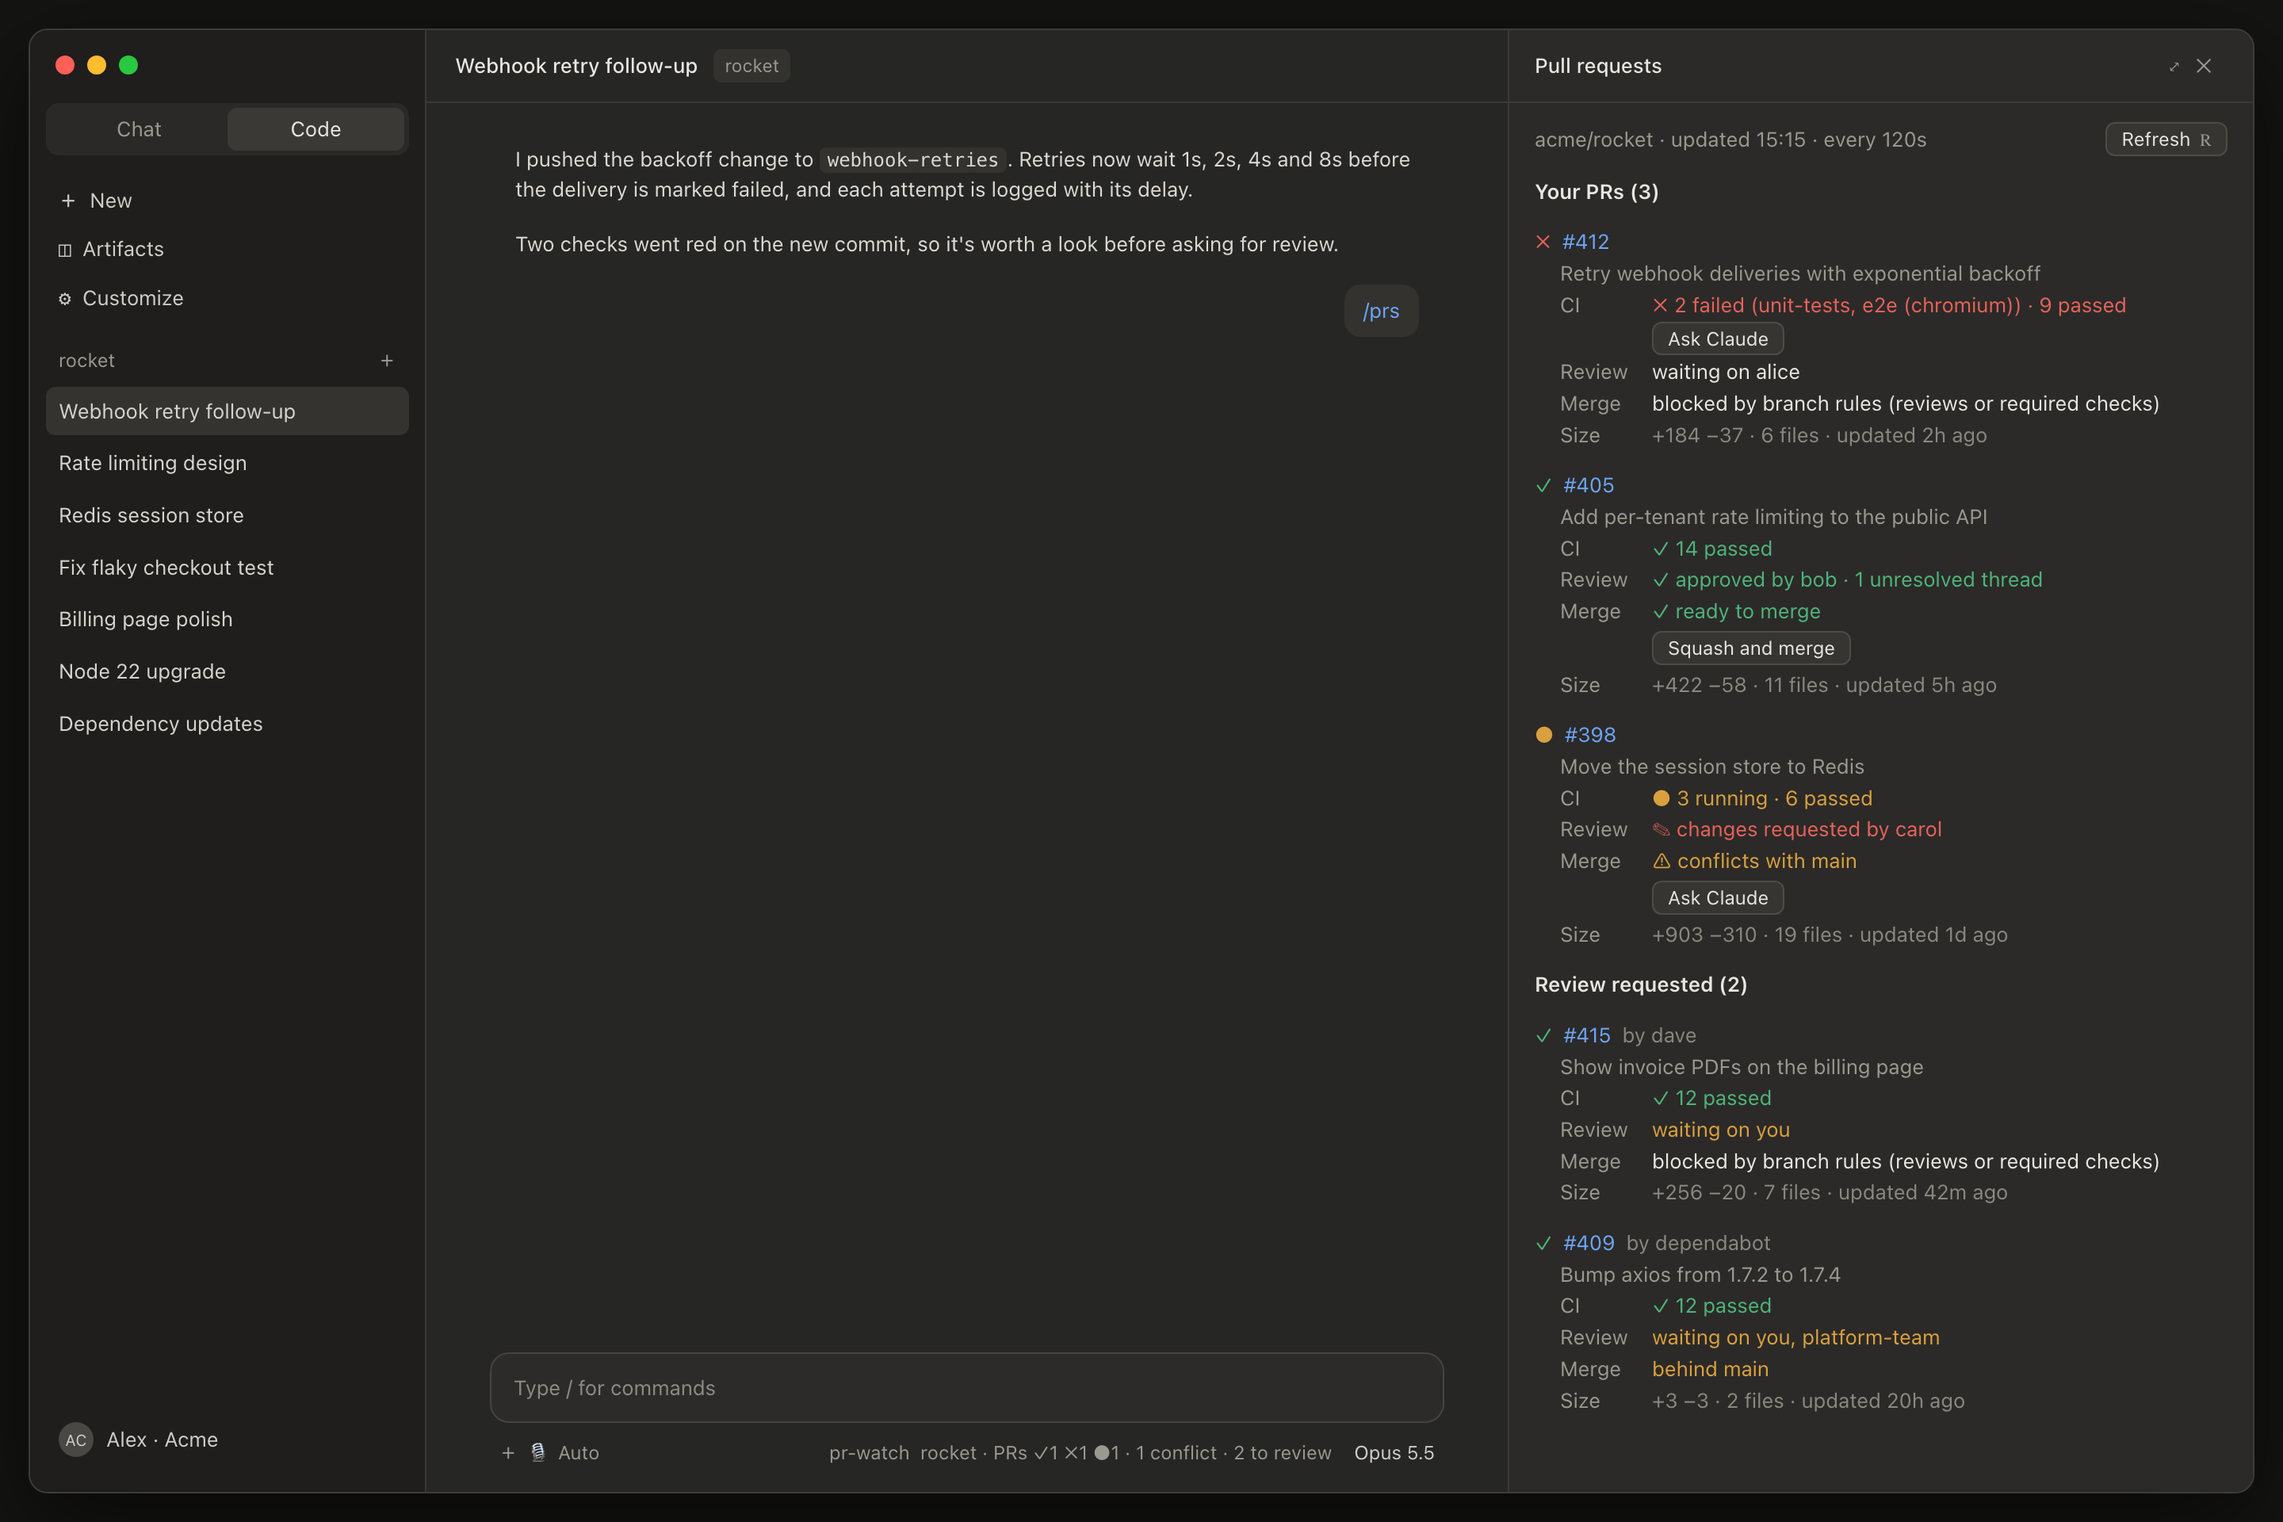
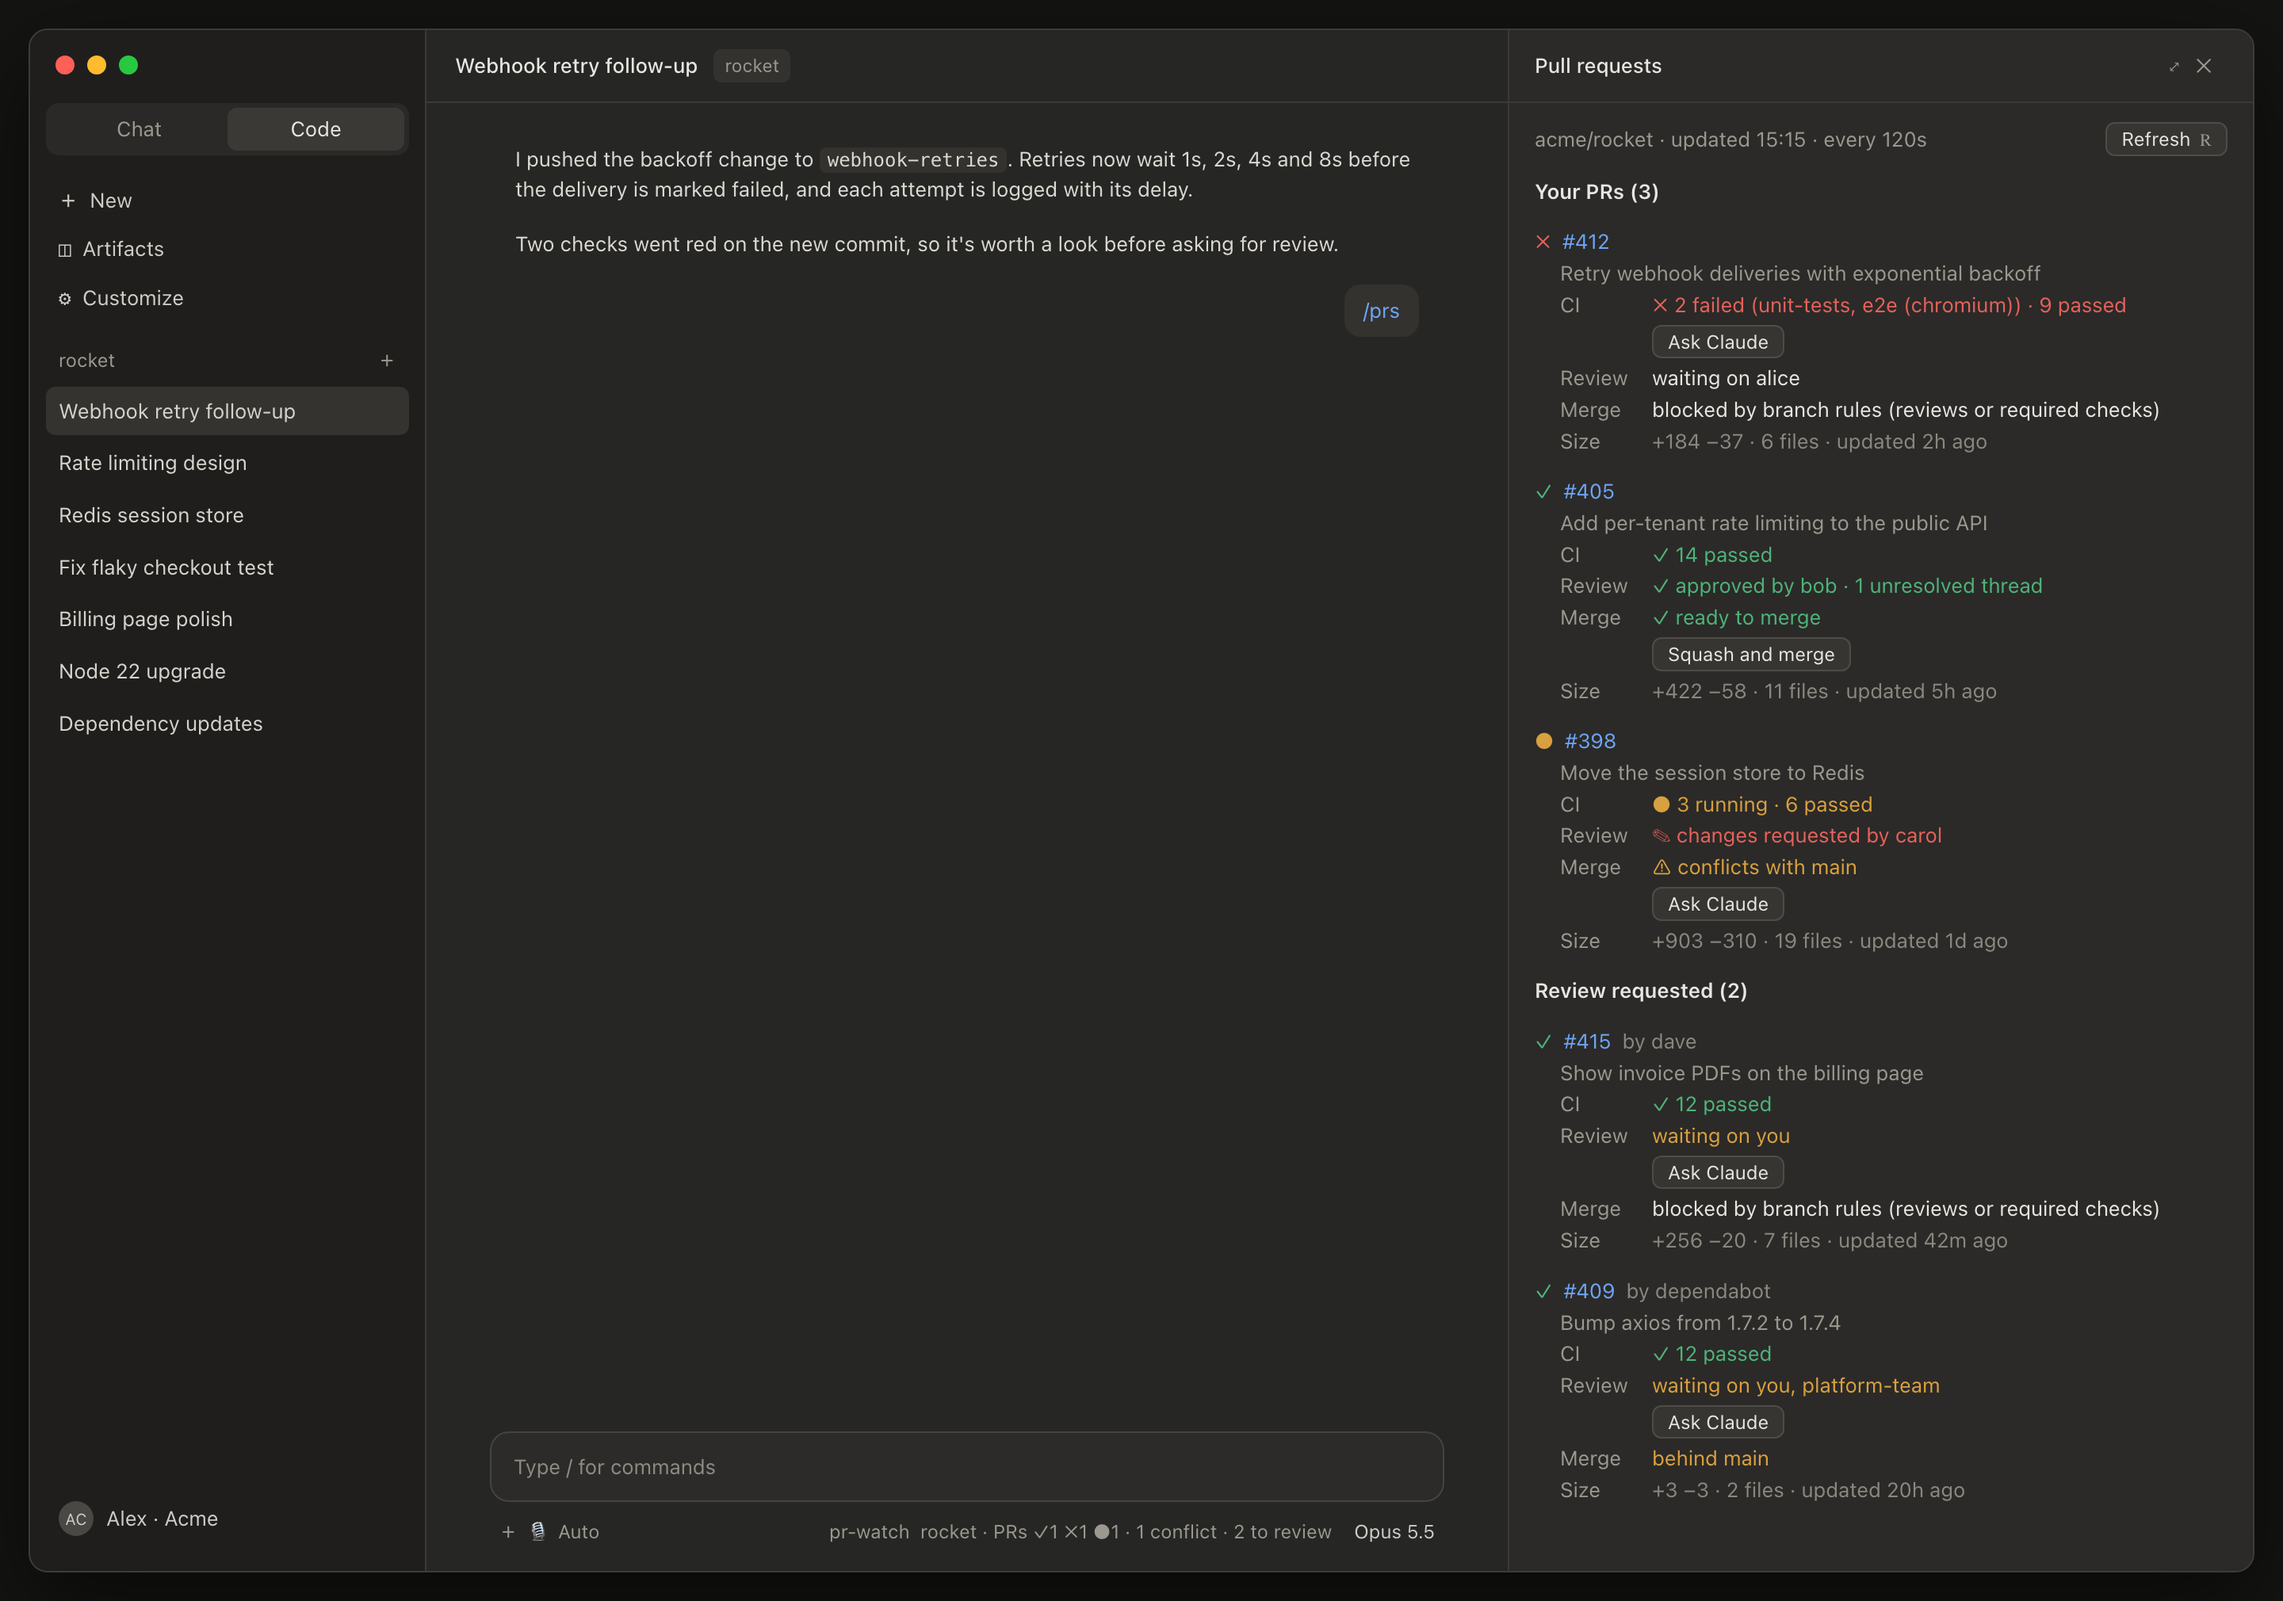
Ask Claude to review PRs that request your review
Review-requested PRs get an Ask Claude button under the Review line. Claude
reads the PR, diff, checks and review threads with gh, reports what it does,
the issues by severity with file:line and a recommendation, and checks the
changelog for dependency bots. It never posts on GitHub unasked. README and
screenshot updated.

diff --git a/hooks/prompts.ts b/hooks/prompts.ts
@@ -47,6 +47,30 @@ export const updatePrompt = (p: Pr, why: Staleness): string => {
   ].join('\n')
 }
 
+/** A dependency bot's PR: dependabot, renovate, or any `[bot]` or GitHub App author. */
+const isBot = (author: string): boolean => /^(dependabot|renovate|app\/)|\[bot\]$/i.test(author)
+
+/** The prompt behind Ask Claude on a PR whose review is requested from me. */
+export const reviewPrompt = (p: Pr): string => {
+  const pr = `${p.number} --repo ${p.repo}`
+  const steps = [
+    `Read it: \`gh pr view ${pr} --comments\`, \`gh pr diff ${pr}\` and \`gh pr checks ${pr}\`, and the inline review threads (\`gh api repos/${p.repo}/pulls/${p.number}/comments\`), so you don't repeat what others already said.`,
+    'If you need to run the code, check the branch out in a separate git worktree so my current checkout and any uncommitted changes stay untouched.',
+    ...(isBot(p.author)
+      ? [
+          "It's a dependency update: check the changelog of what it bumps for breaking changes, and whether any failing checks come from the bump.",
+        ]
+      : []),
+    "Tell me what the PR does in a few sentences, the issues you found ranked by severity, each with file:line, and whether you'd approve, request changes or just comment, and why.",
+  ]
+
+  return [
+    `Review pull request ${p.repo}#${p.number} "${p.title}" (${p.url}) by ${p.author}, \`${p.branch}\` into \`${p.baseBranch || 'main'}\`; my review is requested.`,
+    ...steps.map((step, i) => `${i + 1}. ${step}`),
+    'Do not post a review, comment, approval or any other change on GitHub without asking me first.',
+  ].join('\n')
+}
+
 /** The most prompt text the desktop app takes from a link. */
 export const LINK_PROMPT_LIMIT = 14_336
 

diff --git a/tests/prompts.test.ts b/tests/prompts.test.ts
@@ -4,6 +4,7 @@ import {
   LINK_PROMPT_LIMIT,
   ciPrompt,
   newSessionUrl,
+  reviewPrompt,
   stalenessOf,
   updatePrompt,
 } from '../hooks/prompts'
@@ -70,5 +71,31 @@ describe('newSessionUrl', () => {
   test('cuts the prompt to what the app takes', () => {
     const q = new URL(newSessionUrl('/x', 'a'.repeat(20_000))).searchParams.get('q')
     expect(q?.length).toBe(LINK_PROMPT_LIMIT)
+  })
+})
+
+describe('reviewPrompt', () => {
+  const asked = pr({ role: 'review', author: 'alice', number: 7, title: 'Add caching' })
+
+  test('names the PR, reads it with gh, and reports back without posting', () => {
+    const text = reviewPrompt(asked)
+    expect(text).toContain(
+      'Review pull request acme/app#7 "Add caching" (https://github.com/acme/app/pull/1) by alice, `fix-thing` into `main`',
+    )
+    expect(text).toContain('`gh pr diff 7 --repo acme/app`')
+    expect(text).toContain('gh api repos/acme/app/pulls/7/comments')
+    expect(text).toContain('separate git worktree')
+    expect(text).toContain('ranked by severity, each with file:line')
+    expect(text).toContain("whether you'd approve, request changes or just comment")
+    expect(text).toContain('Do not post a review, comment, approval or any other change on GitHub')
+    expect(text).not.toContain('dependency update')
+  })
+
+  test('a dependency bot gets the changelog check, numbered in', () => {
+    for (const author of ['dependabot', 'renovate[bot]', 'app/dependabot']) {
+      const text = reviewPrompt({ ...asked, author })
+      expect(text).toContain("3. It's a dependency update: check the changelog")
+      expect(text).toContain('4. Tell me what the PR does')
+    }
   })
 })

diff --git a/tests/poll.test.ts b/tests/poll.test.ts
@@ -465,3 +465,36 @@ test('no merge button on a review request, even an approved one', async ($, on) 
   expect(await ui.find({ key: 'merge:https://github.com/acme/app/pull/1' })).toBeUndefined()
   await ui.unmount()
 })
+
+test('a review request gets an Ask Claude that asks for a review', async ($, on) => {
+  const clock = mock.clock(on)
+  const URL = 'https://github.com/acme/app/pull/1'
+  let role: 'mine' | 'review' = 'review'
+  const seen = world(on, { cwd: '/code/app' }, () => answer(PASSING, 'acme/app', { role }))
+
+  await $.session.start(START)
+  await clock.settle()
+
+  for (const surface of ['terminal', 'desktop'] as const) {
+    const ui = await mountPane($, surface)
+    await ui.press({ key: `ask-review:${URL}` })
+    await ui.unmount()
+  }
+
+  // The terminal asks here; the desktop app opens a new session with the same prompt.
+  expect(seen.prompts.length).toBe(1)
+  expect(seen.prompts[0]).toContain('Review pull request acme/app#1')
+  expect(seen.prompts[0]).toContain('my review is requested')
+  expect(seen.opens.map(u => u.searchParams.get('q'))).toEqual([seen.prompts[0]])
+  expect(seen.toasts.at(-1)).toBe(
+    'Opened a new session to review the PR on app#1; send the prompt there to start',
+  )
+
+  // My own PRs get no review button.
+  role = 'mine'
+  await clock.advance(120_000)
+  const ui = await mountPane($, 'terminal')
+  expect(await ui.find({ text: /Your PRs \(1\)/ })).toBeDefined()
+  expect(await ui.find({ key: `ask-review:${URL}` })).toBeUndefined()
+  await ui.unmount()
+})

diff --git a/hooks/register.tsx b/hooks/register.tsx
@@ -8,7 +8,7 @@ import { CI_ICON, changes, ref, settle, summary, toastText } from './diff'
 import { GH_CANDIDATES, ghArgs, parsePrs, parseRemote, reasonOf } from './github'
 import type { FetchResult } from './github'
 import { canMerge, mergeArgs, mergeFailure, mergeLabel } from './merge'
-import { ciPrompt, newSessionUrl, stalenessOf, updatePrompt } from './prompts'
+import { ciPrompt, newSessionUrl, reviewPrompt, stalenessOf, updatePrompt } from './prompts'
 
 const PANE = 'pr-watch'
 const snapshot = atom({ plugin: 'pr-watch', key: 'latest' } as const, null)
@@ -320,6 +320,15 @@ export const register: Register = (on, options) => {
             </Box>
           )}
           {detail('Review', reviewLine(p))}
+          {p.role === 'review' && (
+            <Box paddingLeft={10}>
+              <Button
+                key={`ask-review:${p.url}`}
+                label="Ask Claude"
+                onPress={() => askClaude($, p, reviewPrompt(p), 'review the PR', e.surface)}
+              />
+            </Box>
+          )}
           {detail('Merge', mergeLine(p))}
           {(stale !== undefined || mergeWith !== null) && (
             <Box paddingLeft={10} flexDirection="row" gap={1} flexWrap="wrap">

diff --git a/README.md b/README.md
@@ -24,11 +24,12 @@ A Claude Code mod that keeps an eye on the GitHub pull requests of the repo you'
   - **Size:** additions and deletions, files changed, and when the PR was last updated
 
   Press **Refresh** (`r`) to check right away.
-- **Ask Claude.** Your own PRs get buttons that hand Claude a prompt about the problem. Claude is told not to push or change the PR without asking you first.
+- **Ask Claude.** Buttons that hand Claude a prompt. Claude is told not to push, post or change anything on GitHub without asking you first.
   - **In the desktop app,** the button opens a **new Claude Code session in the same folder** with the prompt already in its composer. Your current conversation is left alone, and nothing runs until you send the prompt there.
   - **In a terminal,** or if the desktop app can't be opened, the prompt is queued in the current conversation and starts once it's idle.
-  - **Failing CI:** **Ask Claude** has Claude read the failing logs with `gh` and propose a fix.
-  - **Merge conflict or behind main:** **Ask Claude** has Claude look into the problem and choose the fix itself. It picks between merging main in, rebasing onto main, or GitHub's update-branch (when the PR is only behind), and tells you which it chose and why. It weighs the repo's conventions, branch protection, and existing reviews that a force-push would disrupt. If a PR that's only behind doesn't need updating, Claude says so and stops. Claude works on the branch in a separate git worktree, so your current checkout is left alone, and it runs the tests and type-check. For conflicts, it shows you how it resolved each file.
+  - **Failing CI** (your PRs): **Ask Claude** has Claude read the failing logs with `gh` and propose a fix.
+  - **Merge conflict or behind main** (your PRs): **Ask Claude** has Claude look into the problem and choose the fix itself. It picks between merging main in, rebasing onto main, or GitHub's update-branch (when the PR is only behind), and tells you which it chose and why. It weighs the repo's conventions, branch protection, and existing reviews that a force-push would disrupt. If a PR that's only behind doesn't need updating, Claude says so and stops. Claude works on the branch in a separate git worktree, so your current checkout is left alone, and it runs the tests and type-check. For conflicts, it shows you how it resolved each file.
+  - **Review requested:** **Ask Claude** has Claude review the PR. It reads the description, diff, checks and existing review threads with `gh`, and checks the branch out in a separate worktree if it needs to run the code. It reports what the PR does, the issues it found ranked by severity with `file:line`, and whether it would approve, request changes or comment. For dependency bots like dependabot, it also checks the changelog for breaking changes and whether failing checks come from the bump.
 - **Merge.** Your approved PRs that GitHub would merge right now get a merge button, labeled like GitHub's own (**Squash and merge**, **Merge**, or **Rebase and merge**, whichever GitHub preselects for you in that repo).
   - "Right now" means CI is not failing or running, there's no conflict, the PR is not a draft, and branch rules don't block it.
   - Pressing it only asks: *Squash and merge #405 into main? [Confirm] [Cancel]*. Nothing merges until you press **Confirm**.
@@ -87,6 +88,7 @@ Use only one of the two install methods; otherwise the mod loads twice.
 | Fix failing CI | **Ask Claude** under a failing PR of yours |
 | Fix a conflict or catch up with main | **Ask Claude** under the Merge line of a PR of yours that conflicts or is behind |
 | Merge an approved PR | The merge button under its Merge line, then **Confirm** |
+| Review a PR you're asked to review | **Ask Claude** under its Review line |
 
 In the terminal, the pane opens docked beside the conversation when the window is wide enough, and inline when it isn't.
 
